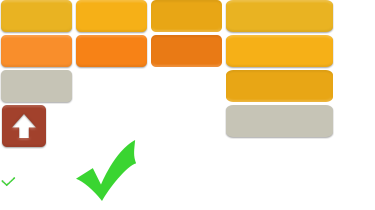
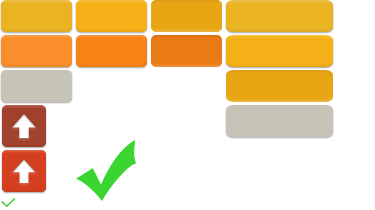
top按钮、hook图标整合

Changed region(s): [[0.0, 0.7143, 0.1467, 1.0]]

diff --git a/website/css/add_succ.css b/website/css/add_succ.css
@@ -10,12 +10,12 @@ div.content_box { margin-bottom: 40px;}
 div.mid_content div.box_demo { text-align: center;}/*浮雕快在高级浏览器下的预定义*/
 
 
-div.juan_v div.box_demo div {text-align: left;margin: 20px auto; width: 260px; background: url('../img/green_hook.png') left center no-repeat;overflow: hidden;}
+div.juan_v div.box_demo div {text-align: left;margin: 20px auto; width: 260px; background: url('../img/button_bg.png') -75px -140px no-repeat;overflow: hidden;}
 div.juan_v div.box_demo span { color:#3ad531; margin: 0px 0px 0px 70px;}
 div.juan_v div.box_demo p { color: #3ad531;margin: 25px 0px 5px 70px; font:16px "微软雅黑",Arial, Helvetica, sans-serif; font-weight:bold;}
 div.juan_v div.box_demo a {display: block; text-decoration:underline; color: #130e7a;margin-bottom: 20px;}
 
-div.yue_v div.box_demo div {text-align: left;margin: 20px auto; width: 200px; background: url('../img/green_hook.png') left center no-repeat;overflow: hidden;}
+div.yue_v div.box_demo div {text-align: left;margin: 20px auto; width: 200px; background: url('../img/button_bg.png') -75px -140px no-repeat;overflow: hidden;}
 div.yue_v div.box_demo strong { font-size: 16px; font-weight: bold; color:#333;}
 div.yue_v div.box_demo p { color: #3ad531;margin: 35px 0px 5px 70px; font:16px "微软雅黑",Arial, Helvetica, sans-serif; font-weight:bold;}
 div.yue_v div.box_demo a {display: block; text-decoration:underline; color: #130e7a;margin: 20px 0px;}

diff --git a/website/css/home.css b/website/css/home.css
@@ -47,7 +47,7 @@ div.mid_content div.box_demo.match_box h3 {background-position: 0px -43px;}
 .match_book ul li label { position:relative; padding-left:25px; cursor:pointer;}
 .match_book ul li label input[type=checkbox] {visibility:hidden;}
 .match_book ul li label input[type=checkbox] + span {display:inline-block; position:absolute; top:0px; left:23px; width:16px; height:16px; border: 1px solid #bababa;}
-.match_book ul li label input[type=checkbox]:checked + span { background:url("../img/minihook.png") no-repeat;}
+.match_book ul li label input[type=checkbox]:checked + span { background:url("../img/button_bg.png") 0px -195px no-repeat;}
 .match_book ul li { color: #130e7a; width: 245px; float: left; height: 31px; text-align: left; margin-top: 20px;}
 .match_book ul li label input { margin-right:10px;}
 .match_book .book_list_bottom { clear: both; height:32px; margin-right: 35px;margin-bottom: 20px; text-align: right; padding-top: 25px;}

diff --git a/website/css/header.css b/website/css/header.css
@@ -48,4 +48,5 @@ div.search_bar .search_input {width: 391px;height: 27px;margin: 27px 0 0 16px; p
 div.search_bar .search_submit {float: right;width: 50px;height: 50px;margin: 14px 16px 0 0;background: none;border: none;cursor: pointer;}
 div.search_bar {width: 490px;height: 85px;margin: 0px auto 15px; background: url('../img/search.png') no-repeat;}
 
-a#back-to-top { z-index: 1000; position: fixed; left: 50%; margin-left: 480px; bottom: 100px; display: none; width: 54px; height: 53px; background: url('../img/button_bg.png') 0px -105px no-repeat;}
+a#back-to-top { z-index: 1000; position: fixed; left: 50%; margin-left: 480px; bottom: 100px; display: none; width: 47px; height: 45px; background: url('../img/button_bg.png') 0px -105px no-repeat;}
+a#back-to-top:hover { background-position: 0px -150px;}

diff --git a/website/css/check_step.css b/website/css/check_step.css
@@ -48,7 +48,7 @@ div.search_results table td label { position: relative; cursor: pointer;}
 div.search_results table td input { ......}
 div.search_results table td input[type=checkbox] {visibility:hidden;}
 div.search_results table td input[type=checkbox] + span {display:inline-block; position:absolute; top:0px; left:0px; width:16px; height:16px; border: 1px solid #bababa;}
-div.search_results table td input[type=checkbox]:checked + span { background:url("../img/minihook.png") no-repeat;}
+div.search_results table td input[type=checkbox]:checked + span { background:url("../img/button_bg.png") 0 -195px no-repeat;}
 
 
 /*重新预约页面 样式*/
